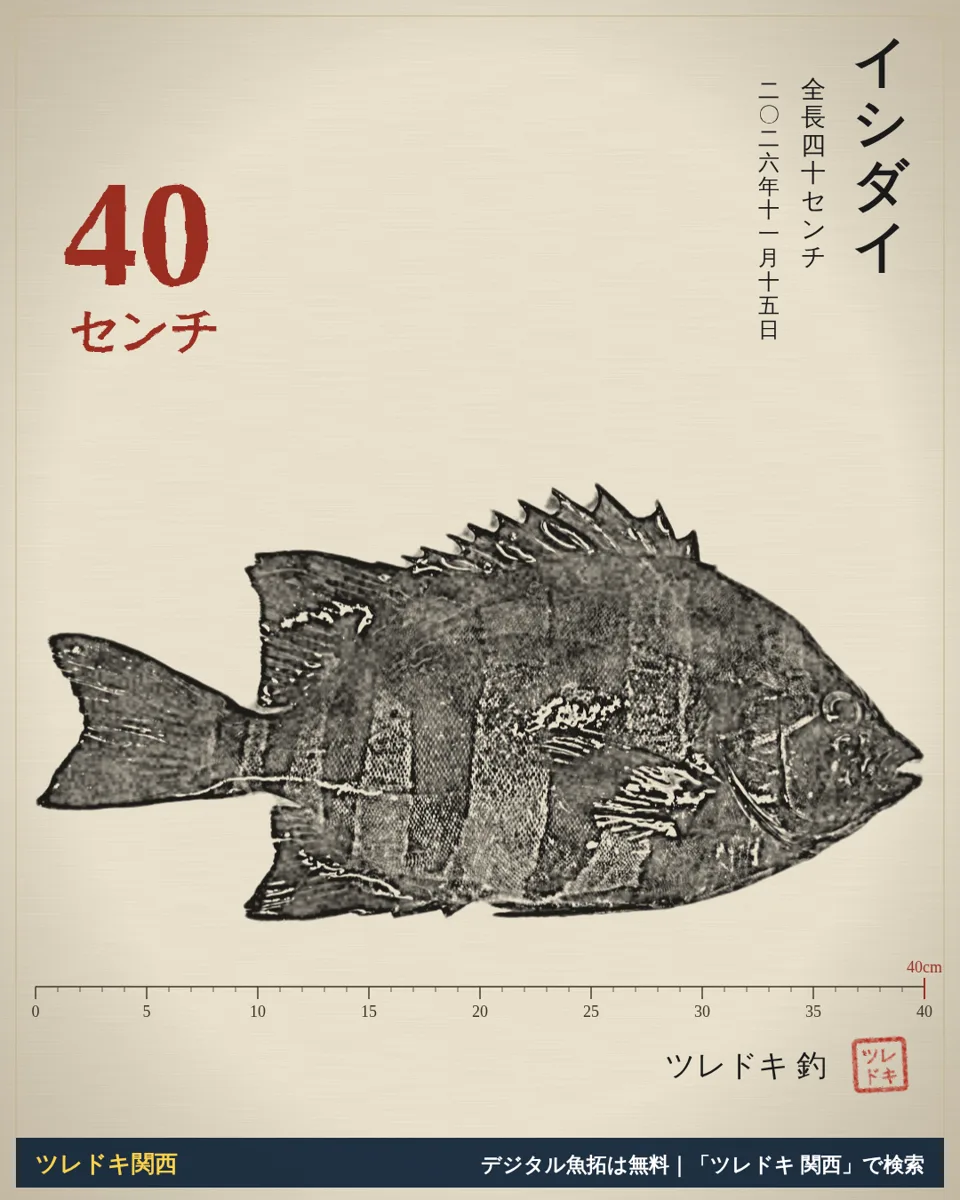
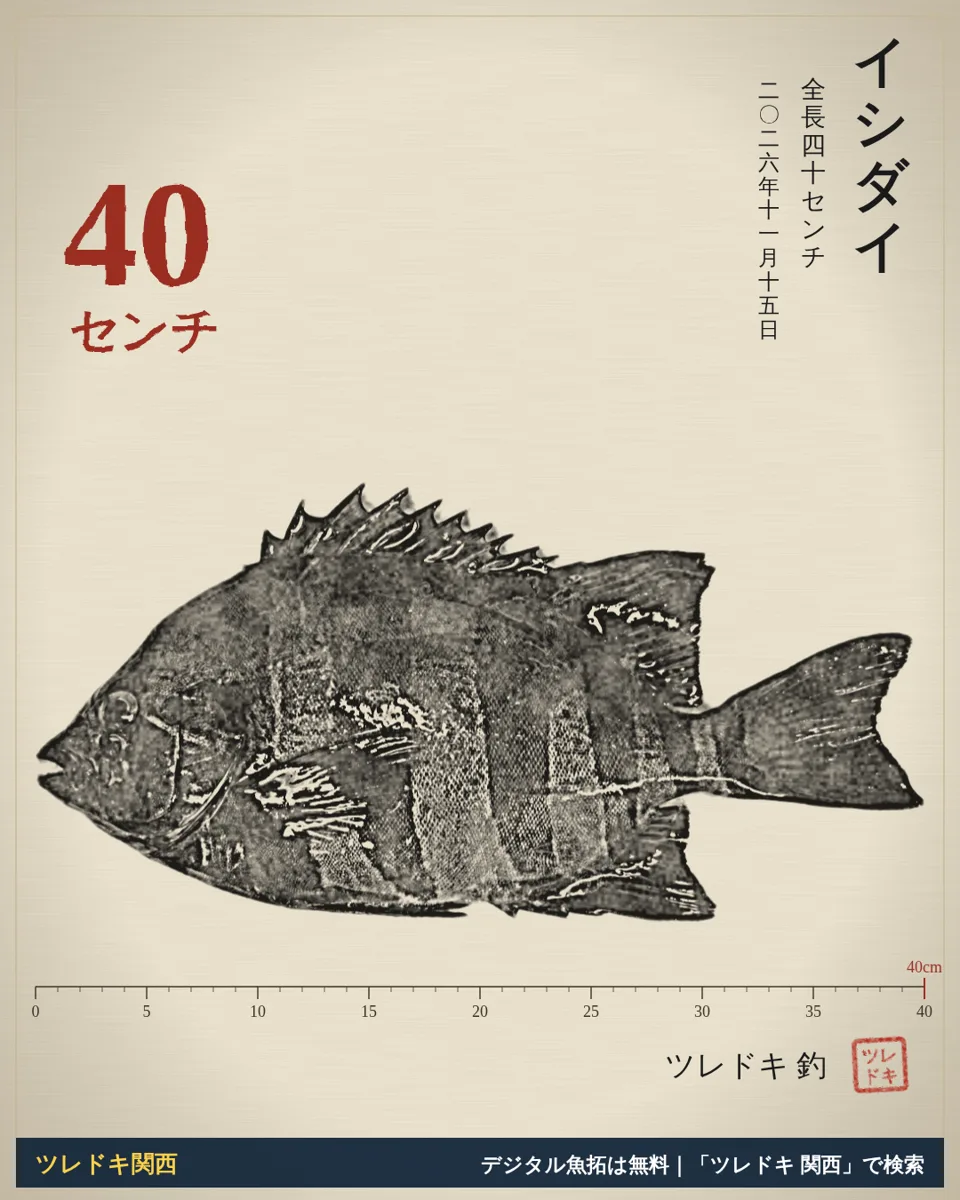
魚拓：頭が左にそろうように（確認の画面を魚拓と同じ向きで表示） (#3)
* 魚拓：確認の画面を頭が左（魚拓と同じ向き）で見せる。見本も頭が左に

Claude-Session: https://claude.ai/code/session_0136AjP6UKpQXASPdXzdeXrp

* 魚拓ページの見本を頭が左に

Claude-Session: https://claude.ai/code/session_0136AjP6UKpQXASPdXzdeXrp

---------

Changed region(s): [[0.0312, 0.4008, 0.9688, 0.7708]]

diff --git a/app/components/PhotoCutout.tsx b/app/components/PhotoCutout.tsx
@@ -3,7 +3,7 @@
 // 釣った魚の写真から、魚だけを切り抜く。
 // 1) 魚をタップすると自動で選ぶ（Google の MediaPipe の画像認識モデルを、この端末の中で動かす）
 // 2) うまく選べない時は、指で魚のまわりをなぞる。はみ出しは「消す」、足りない所は「足す」で直す
-// 3) 魚の向きを横にそろえて切り抜き、頭が右になるように左右を選ぶ
+// 3) 魚の向きを横にそろえて切り抜き、頭が右になるように左右を選ぶ（確認の画面は魚拓と同じ頭が左で見せる）
 // 写真はこの端末の中だけで処理し、どこにも送らない。
 import { useCallback, useEffect, useRef, useState } from "react";
 
@@ -309,9 +309,10 @@ export default function PhotoCutout({ file, onDone, onCancel }: { file: File; on
         </>
       ) : (
         <>
-          <p className="small">魚の頭が<b>右</b>を向くようにしてください。</p>
+          <p className="small">魚拓と同じ向きで見せています。魚の頭が<b>左</b>になるように、違っていたら「左右を反転」を押してください。</p>
           <div className="cutout-preview">
-            <canvas ref={preview} />
+            {/* 保存する絵は頭が右（水槽で右へ泳ぐ向き）。魚拓は左右を反転して頭が左になるので、ここも反転して見せる */}
+            <canvas ref={preview} style={{ transform: "scaleX(-1)" }} />
           </div>
           <div className="gyotaku-actions">
             <button className="submit" onClick={done}>これで決定</button>

diff --git a/app/gyotaku/page.tsx b/app/gyotaku/page.tsx
@@ -21,7 +21,7 @@ export default function GyotakuPage() {
       <ol>
         <li>魚の名前、全長、釣った日を入れて、魚の写真を選びます。</li>
         <li>写真の魚をタップすると、自動で魚だけを切り抜きます。はみ出しや足りない所は指で直せます。</li>
-        <li>魚の頭が右を向くようにそろえて「これで決定」。魚拓は昔ながらの頭が左の形になります。</li>
+        <li>魚拓は昔ながらの「頭が左」。確認の画面で頭が左になっていなければ「左右を反転」を押して、「これで決定」。</li>
         <li>「写真の魚拓」か「墨の魚拓」、画像の形（Instagram 投稿・ストーリー・X）を選んで、保存・共有します。</li>
       </ol>
       <h2>きれいに作るコツ</h2>

diff --git a/scripts/test/check_gyotaku.py b/scripts/test/check_gyotaku.py
@@ -7,6 +7,7 @@ BASE = os.environ.get("BASE", "https://tsuredoki-kansai.mametarou0510mame.worker
 PHOTO = os.environ.get("PHOTO", "scripts/test/ishidai.jpg")
 SPECIES = os.environ.get("SPECIES", "イシダイ")
 SIZE = os.environ.get("SIZE", "40")
+FLIP = os.environ.get("FLIP", "1") == "1"  # この写真は切り抜くと頭が右（魚拓で右）になるので反転して頭を左に
 TAP = [float(v) for v in os.environ.get("TAP", "0.5,0.45").split(",")]
 os.makedirs("shots", exist_ok=True)
 ok = True
@@ -43,6 +44,10 @@ with sync_playwright() as p:
     c.screenshot(path="shots/gy-0-select.png")
     pg.get_by_role("button", name="次へ").click()
     pg.wait_for_timeout(1000)
+    if FLIP:
+        pg.get_by_role("button", name="左右を反転").click()
+        pg.wait_for_timeout(500)
+    pg.locator(".cutout-preview").screenshot(path="shots/gy-1-confirm.png")
     pg.get_by_role("button", name="これで決定").click()
     pg.wait_for_timeout(5000)
     for mode in ("写真の魚拓", "墨の魚拓"):
